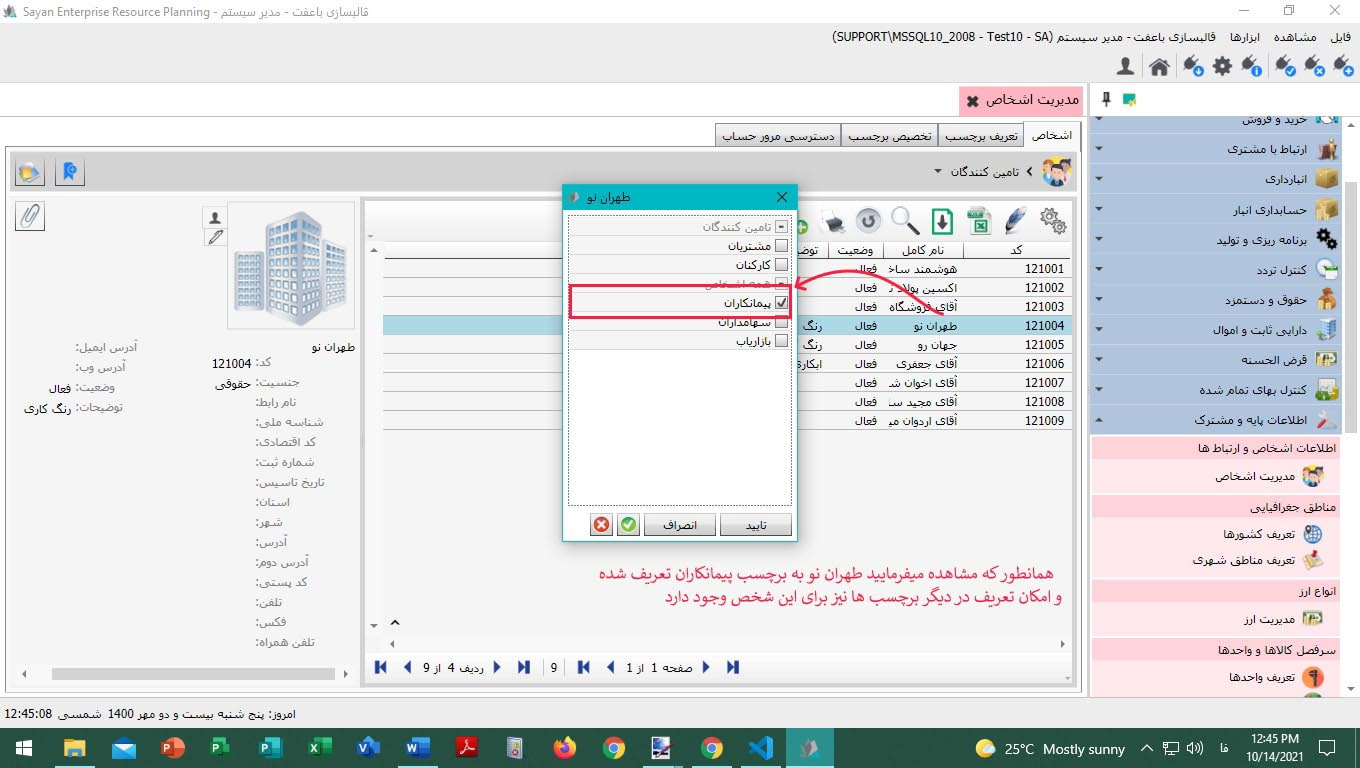
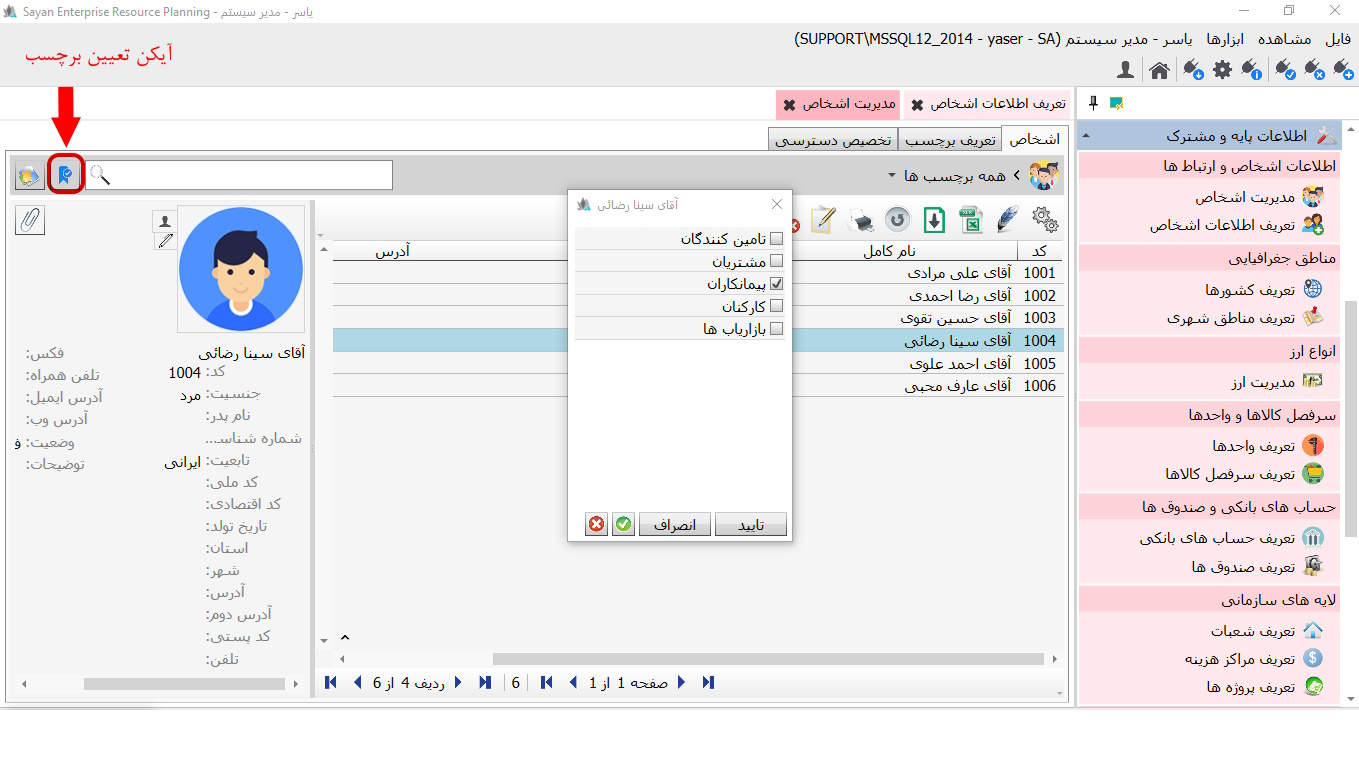
اضافه کردن راهنمای تعریف اطلاعات اشخاص

Changed region(s): [[0.0, 0.0312, 1.0, 1.0], [0.0309, 0.4375, 0.0927, 0.625], [0.2163, 0.0, 0.2781, 0.0312]]

diff --git a/Help/fa-IR/_18_اطلاعات پایه و مشترک/_02_تعریف اطلاعات اشخاص/Index.html b/Help/fa-IR/_18_اطلاعات پایه و مشترک/_02_تعریف اطلاعات اشخاص/Index.html
@@ -12,51 +12,21 @@
 		<h1>تعریف اطلاعات اشخاص</h1>
 	</div>
 	<p>
-		این امکان برای شما مهیا شده اطلاعات مربوط به اشخاصی که با آنها در ارتباط هستید
-		اعم از پرسنل، مشتریان، سهام داران، تامین کنندگان و .... را در سیستم تعریف نمایید،
-		همواره به یاد داشته باشید، برچسب هایی که تعریف خواهید کرد،
-		در تمامی نرم افزارهای یکپارچه سایان قابل مشاهده و کاربرد می باشند.
+در این قسمت امکان مشاهده برچسب ها و همینطور مشاهده اشخاص بصورت کلی و یا به تفکیک هر برچسب باتوجه به دسترسی کاربر وجود دارد.
+همچنین امکان اضافه کردن شخص جدید برای هر برچسب و ویرایش و حذف اشخاص دیگر نیز از این قسمت امکان پذیر است.
 	</p>
 	<p>
-	.با کلیک روی گزینه «مدیریت اشخاص» و کلیک روی آیکن «برچسب اشخاص» صفحه ی زیر را مشاهده خواهید کرد
-	و یا تب « تعریف برچسب » را کلیک کنید.
-	صفحه زیر را مشاهده خواهید کرد. امکان ایجاد «برچسب» از طریق دکمه F8 و یا 
-	«اضافه »آیکن وجود دارد.
+		برای اضافه کردن شخص جدید ابتدا باید ازقسمت برچسب ها ، برچسب شخص جدید که قصد اضافه کردن آن را دارید انتخاب نمائید تا گزینه اضافه کردن برای شما به نمایش دربیاید
 	</p>
 	<img class="FitPic" src="l1.jpg"/>
+
 	<p>
-		علاوه برآن امکان «تعریف برچسب » از طریق دکمه برچسب اشخاص نیز قابل دسترسی می باشد.
-		همانگونه که در تصویر زیر مشاهده می نمایید:
-	</p>
-		<img class="FitPic" src="l5.jpg"/>
-	<p>
-		 لطفا بخاطر داشته باشید، امکان «چندین» برچسب گذاری برای اشخاص 
+		 امکان «چندین» برچسب گذاری برای اشخاص 
 		 تعریف شده در نرم افزار برای شما مهیا شده است.
-		 برای این منظور شما می توانید، بر روی «نام شخص» دوبار «دابل» کلیک کنید.
+		 برای این منظور شما می توانید، بر روی «نام شخص» دوبار «دابل» کلیک کنید و یا اینکه بر روی آیکن تعیین برچسب کلیک کنید..
 	</p>
 	<img class="FitPic" src="l2.jpg"/>
-	<p>
-		همانگونه که از تصویر پیداست، امکان تعریف یک شخص در برچسب های گوناگون
-		کاربران پیاده سازی شده است.
-		شما می توانید جهت عضویت « اشخاص » در برچسب های دیگر، گزینه های 
-		دلخواه را در حالت فعال قرار دهید.
-		به کمک دکمه های نمایش داده شده، اشخاص را به برچسب ها و بالعکس تخصیص (انتقال) دهید.
-		<img class="FitPic" src="l3.jpg" />
-		همواره بخاطر داشته باشید، جهت بهره وری مطلوب از نرم افزار
-		پیش از تعریف اطلاعات اشخاص، «برچسب های» موردنظرتان را تعریف نمایید.
-		برای این منظور در صفحه اطلاعات اشخاص «دکمه F8» را کلیک کنید.
-		اطلاعات اشخاص را وارد نموده و دکمه تایید را کلیک کنید.
-		تصویر زیر نمایان می شود.
-	</p>
-		<img class="FitPic" src="l4.jpg" />
-	<p>
-		در تب « دسترسی مرور حساب» امکان تعیین سطوح دسترسی کاربران 
-		سیستم و دسترسی برچسبهای تعریف شده در سیستم می باشد.
-		همانطور که در تصویر مشاهده می کنید،تمامی برچسب ها برای مدیر سیستم قابل 
-		نمایش و دسترسی است. علاوه بر آن، مدیر سیستم امکان « مرورومشاهده» و
-		«تهیه و چاپ» را نیز به برچسب های تعریف شده تخصیص داده است.
-	</p>
-	<img class="FitPic" src="l6.jpg" />
+	
 </body>
 
 </html>
